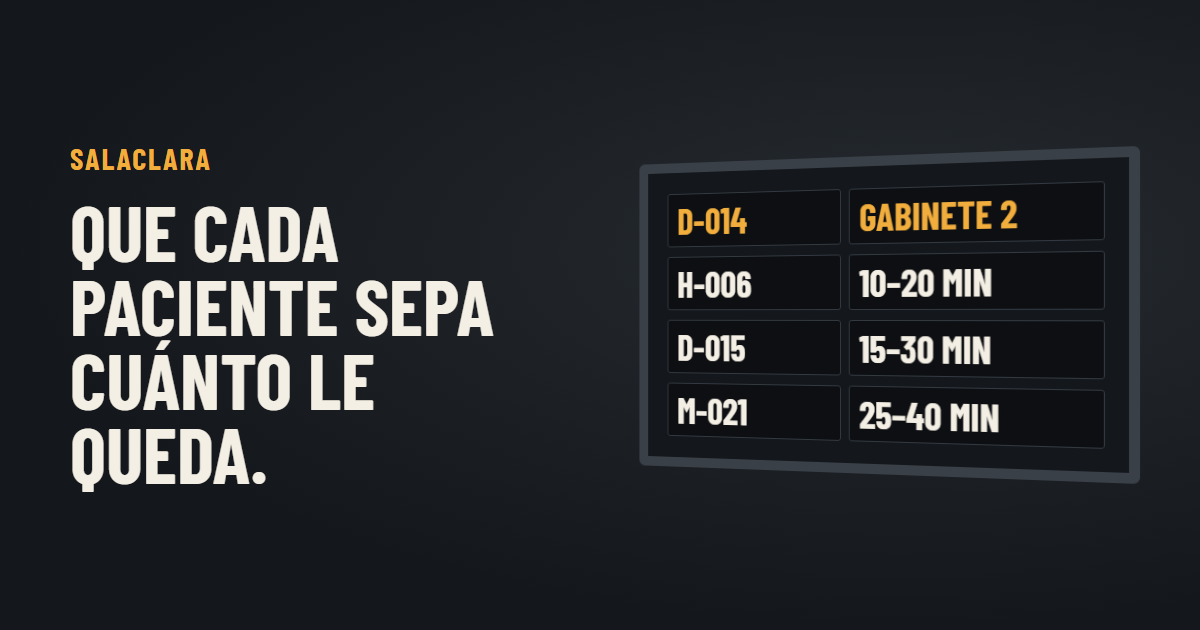
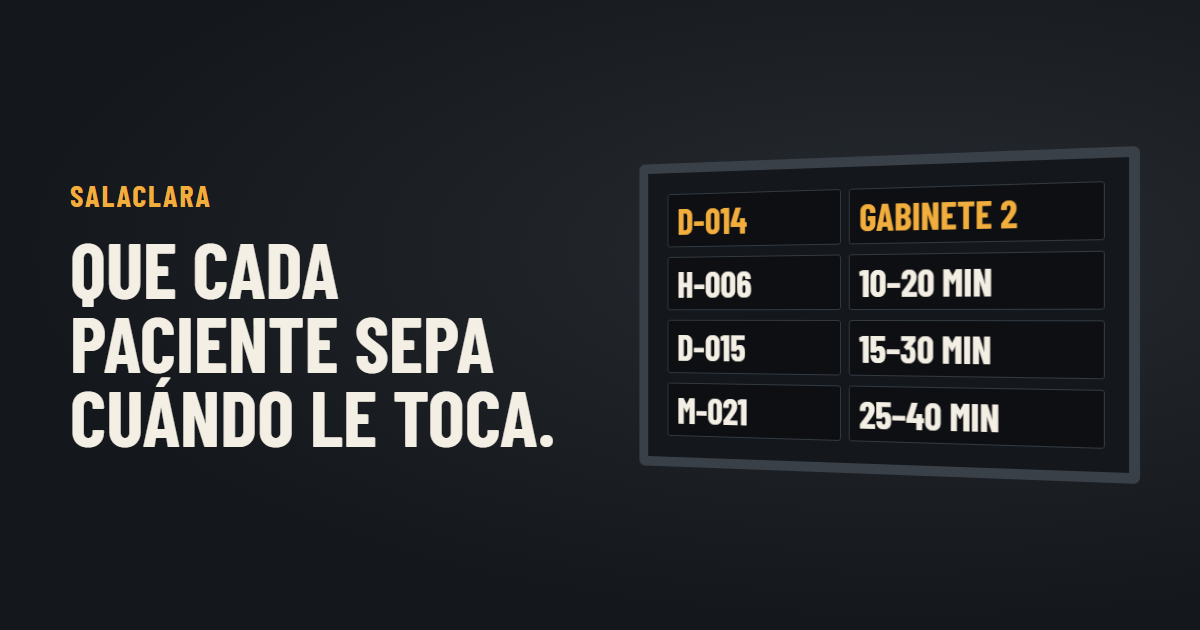
Publicar web 2026-11-12T20:07Z

Changed region(s): [[0.0617, 0.2413, 0.4625, 0.7841]]

diff --git a/index.html b/index.html
@@ -11,7 +11,7 @@
   <meta property="og:type" content="website">
   <meta property="og:locale" content="es_ES">
   <meta property="og:site_name" content="SalaClara">
-  <meta property="og:title" content="SalaClara · Que cada paciente sepa cuánto le queda">
+  <meta property="og:title" content="SalaClara · Que cada paciente sepa cuándo le toca">
   <meta property="og:description" content="Pantalla de sala y aviso al móvil con tiempo de espera actualizado y preaviso de unos 20 minutos. Piloto gratuito para clínicas y centros médicos.">
   <meta property="og:url" content="https://somosliria.github.io/salaclara/">
   <meta property="og:image" content="https://somosliria.github.io/salaclara/assets/og.png">
@@ -91,7 +91,7 @@
   <main id="contenido">
     <section class="hero" aria-labelledby="titulo">
       <div class="hero-copy">
-        <h1 id="titulo">Que cada paciente sepa cuánto le queda.</h1>
+        <h1 id="titulo">Que cada paciente sepa cuándo le toca.</h1>
         <p class="lead">SalaClara muestra en la pantalla de la sala y en el móvil del paciente a quién se llama, adónde ir y un <strong>intervalo de espera que se actualiza solo</strong>. Y le avisa unos 20 minutos antes de su turno.</p>
         <form class="quick-form" data-pilot-form data-api="" novalidate>
           <p class="form-title">Pruébelo gratis en su centro</p>

diff --git a/ficha/index.html b/ficha/index.html
@@ -33,7 +33,7 @@
       <h1><span class="brand-mark" aria-hidden="true">SC</span> SalaClara</h1>
       <p>Información de la espera para centros con cita</p>
     </div>
-    <p class="claim">Que cada paciente sepa cuánto le queda, en la pantalla de la sala y en su móvil.</p>
+    <p class="claim">Que cada paciente sepa cuándo le toca, en la pantalla de la sala y en su móvil.</p>
     <div class="cols">
       <section>
         <h2>El problema</h2>
